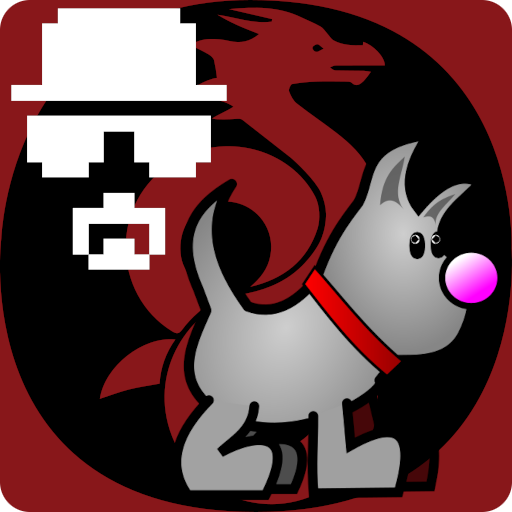
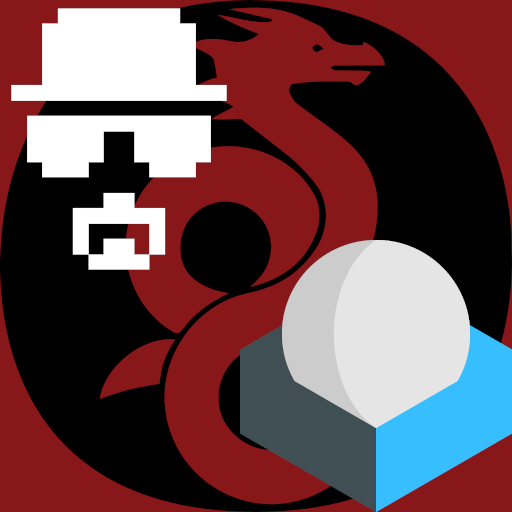
Bringing roundcube back, giving up on Ingress until upstream fixes some bugs

diff --git a/wireguard-heisenbridge-webmail/start-optionsjson.py b/wireguard-heisenbridge-webmail/start-optionsjson.py
@@ -7,14 +7,33 @@ import pathlib
 import socket
 import subprocess
 import sys
+import urllib.parse
+import urllib.request
 
 import yaml
 
 OPTIONS_FILE = pathlib.Path('/data/options.json')
 WIREGUARD_CONF = pathlib.Path('/etc/wireguard/wg0.conf')
 REGISTRATION_FILE = (pathlib.Path('/share/matrix_appservices/') / socket.gethostname()).with_suffix('.yaml')
-MUTTRC_PATH = pathlib.Path('/tmp/Muttrc')
-SIGNATURE_PATH = pathlib.Path('/data/.signature')
+
+# I've symlinked some Roundcube directories into /data, but now Roundcube expects them to exist first
+# FIXME: Is it safe to just symlink them to /data directly?
+CONFIG_DIR = pathlib.Path('/data/config')
+DB_DIR = pathlib.Path('/data/db')
+
+
+def parse_dburl_for_roundcube(url: str):
+    """Parse URL string into a set of env vars for Roundcube."""
+    # FIXME: This could probably be a generator
+    parsed_url = urllib.parse.urlparse(url)
+    return {
+        'ROUNDCUBEMAIL_DB_TYPE': 'pgsql' if parsed_url.scheme == 'postgres' else parsed_url.scheme if parsed_url.scheme else None,
+        'ROUNDCUBEMAIL_DB_HOST': parsed_url.hostname if parsed_url.hostname else None,
+        'ROUNDCUBEMAIL_DB_PORT': parsed_url.port if parsed_url.port else None,
+        'ROUNDCUBEMAIL_DB_USER': parsed_url.username if parsed_url.username else None,
+        'ROUNDCUBEMAIL_DB_PASSWORD': parsed_url.password if parsed_url.password else None,
+        'ROUNDCUBEMAIL_DB_NAME': parsed_url.path.strip('/') if parsed_url.path else None,
+    }
 
 
 if not OPTIONS_FILE.exists():
@@ -25,6 +44,15 @@ HA_options = json.loads(OPTIONS_FILE.read_text())
 # FIXME: Don't listen on the VPN IP address.
 heisenbridge_args = ['--config', str(REGISTRATION_FILE), '--listen-address', '0.0.0.0',
                      '--owner', HA_options['heisenbridge_owner_mxid'], HA_options['heisenbridge_synapse_url']]
+
+roundcube_env = HA_options['roundcube']
+if roundcube_env['database_url']:
+    roundcube_env.update(parse_dburl_for_roundcube(roundcube_env['database_url']))
+
+# Remove empty variables so that it lets the defaults happen rather than treating them as empty strings
+for k, v in list(roundcube_env.items()):
+    if not v:
+        roundcube_env.pop(k)
 
 if __name__ == "__main__":
     # Generate registration.yaml if it doesn't already exist
@@ -49,14 +77,10 @@ if __name__ == "__main__":
                 "AllowedIPs = {joined_wireguard_allowed_IPs}",
             )).format(**HA_options, joined_wireguard_allowed_IPs=', '.join(HA_options['wireguard_allowed_IPs'])))
 
-        print('Writing muttrc config', flush=True)
-        if HA_options['muttrc']:
-            assert not MUTTRC_PATH.exists()
-            MUTTRC_PATH.write_text('\n'.join(HA_options['muttrc']))
-
-        print('Writing signature file', flush=True)
-        if HA_options['signature']:
-            SIGNATURE_PATH.write_text(HA_options['signature'])
+        if not DB_DIR.exists():
+            DB_DIR.mkdir()
+        if not CONFIG_DIR.exists():
+            CONFIG_DIR.mkdir()
 
         print('Starting Wireguard interface.', flush=True)
         subprocess.check_call(['wg-quick', 'up', 'wg0'])
@@ -66,14 +90,9 @@ if __name__ == "__main__":
         print('Starting Heisenbridge with command:', ['heisenbridge', *heisenbridge_args], flush=True)
         heisenbridge = subprocess.Popen(['heisenbridge', *heisenbridge_args])
 
-        # FIXME: Should I be programmatically determining this somehow? Mostly I just don't want it listening on the VPN
-        ttyd_nic = 'eth0'
-        # NOTE: 65534 = nobody/nogroup
-        ttyd_mutt_args = ['ttyd', '--port', '8099', '--interface', ttyd_nic,
-                          '--uid', '65534', '--gid', '65534', '--cwd', '/data',
-                          'neomutt', '-F', str(MUTTRC_PATH)]
-        print('Starting ttyd with command:', ttyd_mutt_args, flush=True)
-        ttyd_mutt = subprocess.Popen(ttyd_mutt_args, env={**os.environ, 'HOME': '/data'})
+        roundcube_args = ["/docker-entrypoint.sh", sys.argv[1] if len(sys.argv) >= 2 else "apache2-foreground", *sys.argv[2:]]
+        print('Starting Roundcube with env:', roundcube_env, flush=True)
+        roundcube = subprocess.Popen(roundcube_args, env={**os.environ, **roundcube_env})
 
         crashed = False
         while crashed is False:
@@ -82,8 +101,8 @@ if __name__ == "__main__":
             if pid == heisenbridge.pid:
                 crashed = True
                 print("Heisenbridge exited, killing Roundcube and exiting.", file=sys.stderr, flush=True)
-                ttyd_mutt.kill()
-            elif pid == ttyd_mutt.pid:
+                roundcube.kill()
+            elif pid == roundcube.pid:
                 crashed = True
                 print("ttyd exited, killing Heisenbridge and exiting.", file=sys.stderr, flush=True)
                 heisenbridge.kill()
